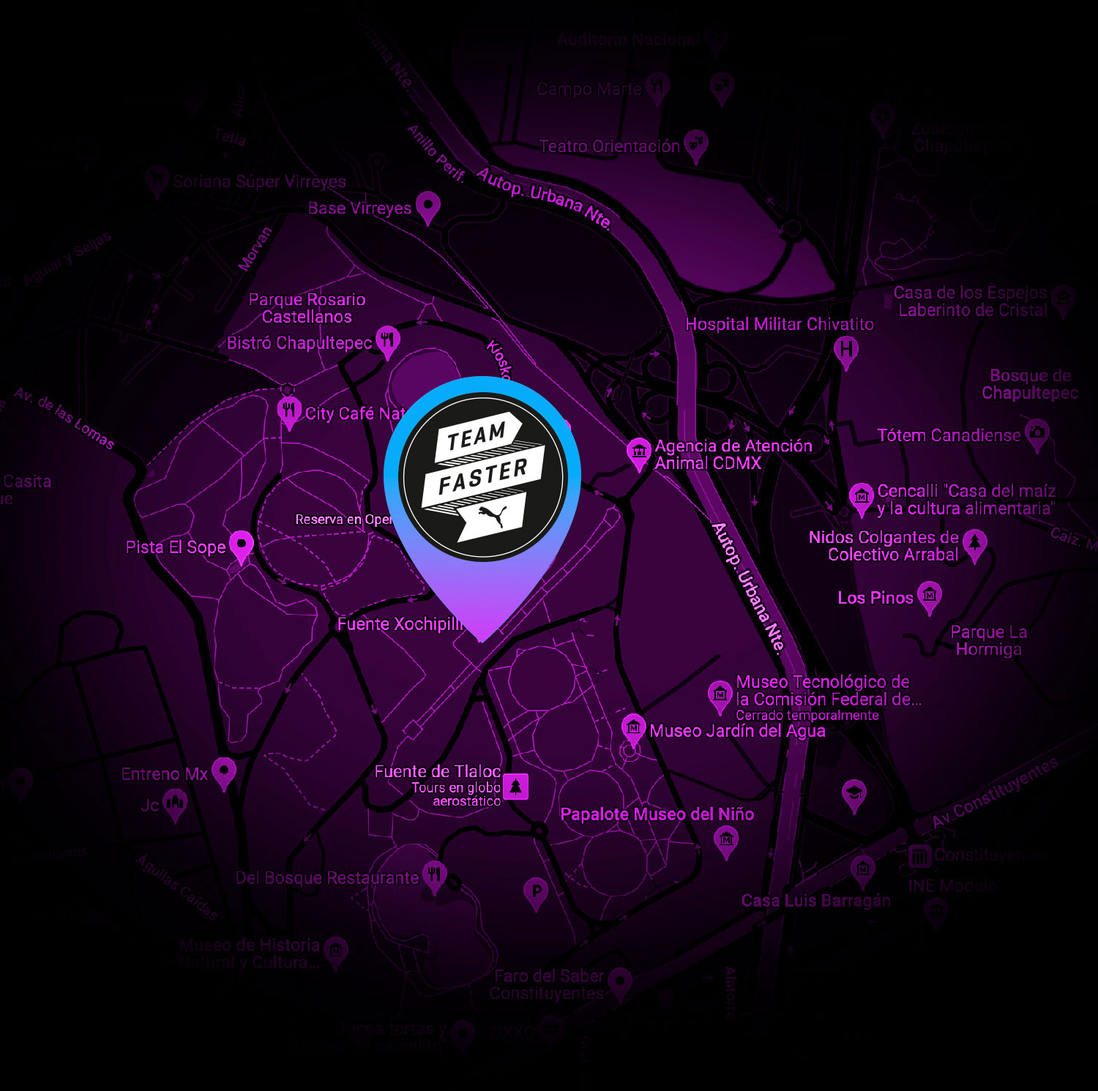
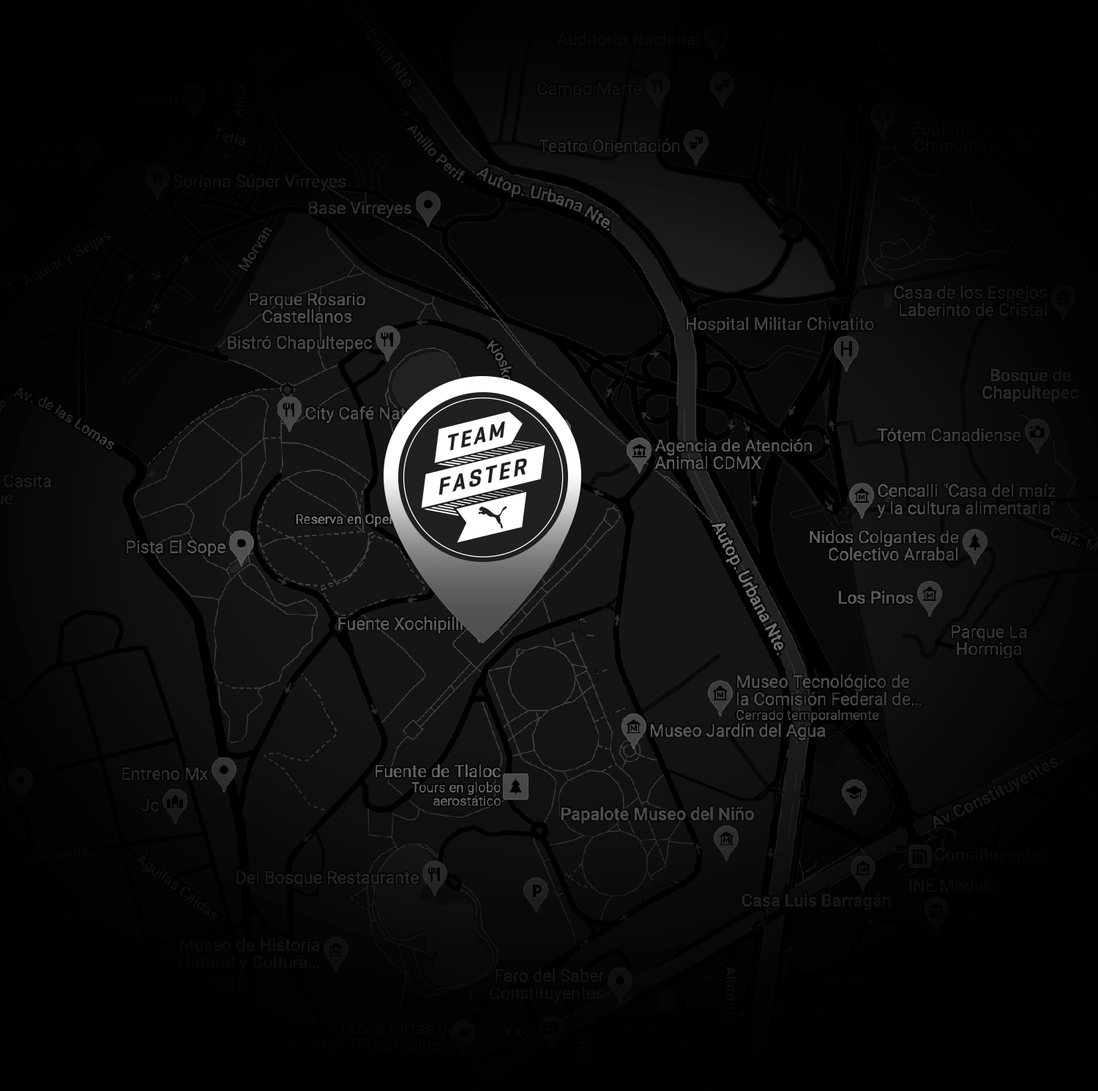
black and white

diff --git a/public/js/resources_js_Pages_Venues_vue.js b/public/js/resources_js_Pages_Venues_vue.js
@@ -120,15 +120,6 @@ __webpack_require__.r(__webpack_exports__);
 //
 //
 //
-//
-//
-//
-//
-//
-//
-//
-//
-//
 /* harmony default export */ const __WEBPACK_DEFAULT_EXPORT__ = ({
   name: 'venues',
   data: function data() {
@@ -191,7 +182,7 @@ __webpack_require__.r(__webpack_exports__);
 
 var ___CSS_LOADER_EXPORT___ = _node_modules_css_loader_dist_runtime_api_js__WEBPACK_IMPORTED_MODULE_0___default()(function(i){return i[1]});
 // Module
-___CSS_LOADER_EXPORT___.push([module.id, ".register-button[data-v-0629e8cd] {\n  border-color: white;\n}\n@media screen and (max-width: 1024px) {\n.register-button[data-v-0629e8cd] {\n    font-size: 1rem !important;\n}\n}\n@media screen and (max-width: 940px) {\n.register-button[data-v-0629e8cd] {\n    font-size: 0.9rem !important;\n}\n}\n@media screen and (max-width: 768px) {\n.register-button[data-v-0629e8cd] {\n    font-size: 1.25rem !important;\n}\n}\n.venues_photos[data-v-0629e8cd] {\n  margin: 0 20px;\n  padding: 20px;\n  background-color: black;\n}\n.venues[data-v-0629e8cd] {\n  background: linear-gradient(90deg, #60a8f7, rgb(144, 106, 245) 38%, #b935f2);\n}\n.title-venues[data-v-0629e8cd] {\n  font-size: 100px;\n  color: black;\n  line-height: 90px;\n  text-align: right;\n}\n@media screen and (max-width: 768px) {\n.title-venues[data-v-0629e8cd] {\n    font-size: 90px;\n    color: black;\n    line-height: 80px;\n    text-align: center;\n}\n}\n.title-image[data-v-0629e8cd] {\n  width: 158px;\n}\n@media screen and (max-width: 768px) {\n.title-image[data-v-0629e8cd] {\n    text-align: right;\n    margin-left: auto;\n    margin-right: auto;\n    width: 35%;\n}\n}\n@media screen and (min-width: 769px) {\n.title-image[data-v-0629e8cd] {\n    margin-left: 48px;\n    padding-top: 14px;\n}\n}\n.title-venues2[data-v-0629e8cd] {\n  font-size: 125px;\n}\n@media screen and (max-width: 768px) {\n.title-venues2[data-v-0629e8cd] {\n    font-size: 115px;\n}\n}\n.footer-styles[data-v-0629e8cd] {\n  padding: 96px 24px 48px;\n  background: linear-gradient(transparent, 35%, #110315);\n  opacity: 1;\n}\n.text-photo-title[data-v-0629e8cd] {\n  position: absolute;\n  color: white;\n  font-family: \"FFDINforPUMA-Bold\", \"Helvetica Neue\", Helvetica, Arial, sans-serif;\n  width: 100%;\n  left: 0;\n  top: 50%;\n  text-transform: uppercase;\n  font-size: 18px;\n  padding: 0 12px;\n}\n.text-photo-title.two-lines[data-v-0629e8cd] {\n  top: 47%;\n}\n.text-photo-title.venue-active[data-v-0629e8cd] {\n  top: 43%;\n}\n.text-photo-title.venue-active-third[data-v-0629e8cd] {\n  top: 42%;\n}\n.text-photo-date[data-v-0629e8cd] {\n  position: absolute;\n  color: white;\n  font-family: \"FFDINforPUMA-Regular\", \"Helvetica Neue\", Helvetica, Arial, sans-serif;\n  width: 100%;\n  text-align: right;\n  left: 0;\n  bottom: 0;\n  text-transform: uppercase;\n  font-size: 18px;\n  padding-right: 20px;\n  padding-bottom: 12px;\n}\n.text-photo-register[data-v-0629e8cd] {\n  position: absolute;\n  color: white;\n  font-family: \"FFDINforPUMA-Bold\", \"Helvetica Neue\", Helvetica, Arial, sans-serif;\n  width: 100%;\n  text-align: left;\n  left: 0;\n  top: 0;\n  text-transform: uppercase;\n  font-size: 18px;\n  padding-left: 20px;\n  padding-top: 20px;\n  color: #d700fb;\n}\n.venue0[data-v-0629e8cd] {\n  animation: fadein-data-v-0629e8cd 1s;\n  -moz-animation: fadein-data-v-0629e8cd 1s; /* Firefox */\n  -webkit-animation: fadein-data-v-0629e8cd 1s; /* Safari and Chrome */\n  -o-animation: fadein-data-v-0629e8cd 1s; /* Opera */\n}\n.venue1[data-v-0629e8cd] {\n  animation: fadein-data-v-0629e8cd 2s;\n  -moz-animation: fadein-data-v-0629e8cd 2s; /* Firefox */\n  -webkit-animation: fadein-data-v-0629e8cd 2s; /* Safari and Chrome */\n  -o-animation: fadein-data-v-0629e8cd 2s; /* Opera */\n}\n.venue2[data-v-0629e8cd] {\n  animation: fadein-data-v-0629e8cd 3s;\n  -moz-animation: fadein-data-v-0629e8cd 3s; /* Firefox */\n  -webkit-animation: fadein-data-v-0629e8cd 3s; /* Safari and Chrome */\n  -o-animation: fadein-data-v-0629e8cd 3s; /* Opera */\n}\n.empty[data-v-0629e8cd] {\n  height: 30vw;\n}\n@keyframes fadein-data-v-0629e8cd {\nfrom {\n    opacity: 0;\n}\nto {\n    opacity: 1;\n}\n}\n@-webkit-keyframes fadein-data-v-0629e8cd { /* Safari and Chrome */\nfrom {\n    opacity: 0;\n}\nto {\n    opacity: 1;\n}\n}", ""]);
+___CSS_LOADER_EXPORT___.push([module.id, ".register-button[data-v-0629e8cd] {\n  border-color: white;\n}\n@media screen and (max-width: 1024px) {\n.register-button[data-v-0629e8cd] {\n    font-size: 1rem !important;\n}\n}\n@media screen and (max-width: 940px) {\n.register-button[data-v-0629e8cd] {\n    font-size: 0.9rem !important;\n}\n}\n@media screen and (max-width: 768px) {\n.register-button[data-v-0629e8cd] {\n    font-size: 1.25rem !important;\n}\n}\n.venues_photos[data-v-0629e8cd] {\n  margin: 0 20px;\n  padding: 20px;\n  background-color: black;\n  filter: grayscale(100%);\n}\n.venues[data-v-0629e8cd] {\n  background: linear-gradient(90deg, #6d6e79, #ebebed);\n}\n.title-venues[data-v-0629e8cd] {\n  font-size: 100px;\n  color: black;\n  line-height: 90px;\n  text-align: right;\n}\n@media screen and (max-width: 768px) {\n.title-venues[data-v-0629e8cd] {\n    font-size: 90px;\n    color: black;\n    line-height: 80px;\n    text-align: center;\n}\n}\n.title-image[data-v-0629e8cd] {\n  width: 158px;\n}\n@media screen and (max-width: 768px) {\n.title-image[data-v-0629e8cd] {\n    text-align: right;\n    margin-left: auto;\n    margin-right: auto;\n    width: 35%;\n}\n}\n@media screen and (min-width: 769px) {\n.title-image[data-v-0629e8cd] {\n    margin-left: 48px;\n    padding-top: 14px;\n}\n}\n.title-venues2[data-v-0629e8cd] {\n  font-size: 125px;\n}\n@media screen and (max-width: 768px) {\n.title-venues2[data-v-0629e8cd] {\n    font-size: 115px;\n}\n}\n.footer-styles[data-v-0629e8cd] {\n  padding: 96px 24px 48px;\n  background: linear-gradient(transparent, black 45%, black);\n  opacity: 1;\n}\n.text-photo-title[data-v-0629e8cd] {\n  position: absolute;\n  color: white;\n  font-family: \"FFDINforPUMA-Bold\", \"Helvetica Neue\", Helvetica, Arial, sans-serif;\n  width: 100%;\n  left: 0;\n  top: 50%;\n  text-transform: uppercase;\n  font-size: 18px;\n  padding: 0 12px;\n}\n.text-photo-title.two-lines[data-v-0629e8cd] {\n  top: 47%;\n}\n.text-photo-title.venue-active[data-v-0629e8cd] {\n  top: 43%;\n}\n.text-photo-title.venue-active-third[data-v-0629e8cd] {\n  top: 42%;\n}\n.text-photo-date[data-v-0629e8cd] {\n  position: absolute;\n  color: white;\n  font-family: \"FFDINforPUMA-Regular\", \"Helvetica Neue\", Helvetica, Arial, sans-serif;\n  width: 100%;\n  text-align: right;\n  left: 0;\n  bottom: 0;\n  text-transform: uppercase;\n  font-size: 18px;\n  padding-right: 20px;\n  padding-bottom: 12px;\n}\n.text-photo-register[data-v-0629e8cd] {\n  position: absolute;\n  color: white;\n  font-family: \"FFDINforPUMA-Bold\", \"Helvetica Neue\", Helvetica, Arial, sans-serif;\n  width: 100%;\n  text-align: left;\n  left: 0;\n  top: 0;\n  text-transform: uppercase;\n  font-size: 18px;\n  padding-left: 20px;\n  padding-top: 20px;\n}\n.venue0[data-v-0629e8cd] {\n  animation: fadein-data-v-0629e8cd 1s;\n  -moz-animation: fadein-data-v-0629e8cd 1s; /* Firefox */\n  -webkit-animation: fadein-data-v-0629e8cd 1s; /* Safari and Chrome */\n  -o-animation: fadein-data-v-0629e8cd 1s; /* Opera */\n}\n.venue1[data-v-0629e8cd] {\n  animation: fadein-data-v-0629e8cd 2s;\n  -moz-animation: fadein-data-v-0629e8cd 2s; /* Firefox */\n  -webkit-animation: fadein-data-v-0629e8cd 2s; /* Safari and Chrome */\n  -o-animation: fadein-data-v-0629e8cd 2s; /* Opera */\n}\n.venue2[data-v-0629e8cd] {\n  animation: fadein-data-v-0629e8cd 3s;\n  -moz-animation: fadein-data-v-0629e8cd 3s; /* Firefox */\n  -webkit-animation: fadein-data-v-0629e8cd 3s; /* Safari and Chrome */\n  -o-animation: fadein-data-v-0629e8cd 3s; /* Opera */\n}\n.empty[data-v-0629e8cd] {\n  height: 30vw;\n}\n@keyframes fadein-data-v-0629e8cd {\nfrom {\n    opacity: 0;\n}\nto {\n    opacity: 1;\n}\n}\n@-webkit-keyframes fadein-data-v-0629e8cd { /* Safari and Chrome */\nfrom {\n    opacity: 0;\n}\nto {\n    opacity: 1;\n}\n}", ""]);
 // Exports
 /* harmony default export */ const __WEBPACK_DEFAULT_EXPORT__ = (___CSS_LOADER_EXPORT___);
 
@@ -364,6 +355,7 @@ var render = function () {
                 return _c(
                   "div",
                   {
+                    key: key,
                     staticClass: "column is-clickable",
                     class: "venue" + key,
                     staticStyle: { position: "relative" },
@@ -382,12 +374,7 @@ var render = function () {
                         _vm._v(" "),
                         _c(
                           "div",
-                          {
-                            staticClass: "text-photo-title",
-                            class: {
-                              "venue-active": venue.id == _vm.workout.venue.id,
-                            },
-                          },
+                          { staticClass: "text-photo-title venue-active" },
                           [
                             _vm._v(
                               "\n              " +
@@ -456,6 +443,7 @@ var render = function () {
                 return _c(
                   "div",
                   {
+                    key: key,
                     staticClass: "column is-clickable",
                     class: "venue" + key,
                     staticStyle: { position: "relative" },
@@ -472,7 +460,7 @@ var render = function () {
                     _c(
                       "div",
                       {
-                        staticClass: "text-photo-title",
+                        staticClass: "text-photo-title venue-active",
                         class: {
                           "venue-active": venue.id == _vm.workout.venue.id,
                         },
@@ -485,25 +473,29 @@ var render = function () {
                         ),
                         _c("br"),
                         _vm._v(" "),
-                        venue.id == _vm.workout.venue.id
-                          ? [
-                              _c(
-                                "b-button",
-                                {
-                                  staticClass: "register-button",
-                                  attrs: { rounded: "", size: "is-medium" },
-                                  on: { click: _vm.handleGoTo },
-                                },
-                                [
-                                  _vm._v(
-                                    "\n                ¡Regístrate ahora!\n              "
-                                  ),
-                                ]
-                              ),
-                            ]
-                          : _vm._e(),
+                        _c(
+                          "b-button",
+                          {
+                            staticClass: "register-button",
+                            attrs: {
+                              rounded: "",
+                              size: "is-medium",
+                              "data-id": venue.id,
+                            },
+                            on: {
+                              click: function ($event) {
+                                return _vm.handleGoTo(venue.id)
+                              },
+                            },
+                          },
+                          [
+                            _vm._v(
+                              "\n              ¡Regístrate ahora!\n            "
+                            ),
+                          ]
+                        ),
                       ],
-                      2
+                      1
                     ),
                     _vm._v(" "),
                     _c("div", { staticClass: "text-photo-date" }, [
@@ -530,7 +522,7 @@ var render = function () {
         2
       ),
     ]),
-    _vm._v("\n  <"),
+    _vm._v(" "),
     _vm._m(1),
   ])
 }

diff --git a/public/js/resources_js_Pages_Registro_vue.js b/public/js/resources_js_Pages_Registro_vue.js
@@ -797,7 +797,7 @@ __webpack_require__.r(__webpack_exports__);
 
 var ___CSS_LOADER_EXPORT___ = _node_modules_css_loader_dist_runtime_api_js__WEBPACK_IMPORTED_MODULE_0___default()(function(i){return i[1]});
 // Module
-___CSS_LOADER_EXPORT___.push([module.id, ".register-button[data-v-4f20a652] {\n  background-color: #c624f1;\n  border-color: #c624f1;\n  color: white;\n  font-family: \"FFDINforPUMA-Bold\", \"Helvetica Neue\", Helvetica, Arial, sans-serif;\n  text-transform: uppercase;\n  padding: 3px 36px 0;\n  margin-top: 26px;\n}\n.form-styles[data-v-4f20a652] {\n  padding-left: 7%;\n  padding-right: 7%;\n  padding-bottom: 48px;\n  padding-top: 48px;\n  max-width: 600px;\n  margin-left: auto;\n  margin-right: auto;\n}\n.form-styles .field-style[data-v-4f20a652] {\n  padding-top: 12px;\n  position: relative;\n}\n.form-title[data-v-4f20a652] {\n  font-size: 18px;\n  color: white;\n  text-align: left;\n  text-transform: uppercase;\n  padding-bottom: 12px;\n  padding-top: 12px;\n}", ""]);
+___CSS_LOADER_EXPORT___.push([module.id, ".register-button[data-v-4f20a652] {\n  background-color: #66676e;\n  border-color: #66676e;\n  color: white;\n  font-family: \"FFDINforPUMA-Bold\", \"Helvetica Neue\", Helvetica, Arial, sans-serif;\n  text-transform: uppercase;\n  padding: 3px 36px 0;\n  margin-top: 26px;\n}\n.form-styles[data-v-4f20a652] {\n  padding-left: 7%;\n  padding-right: 7%;\n  padding-bottom: 48px;\n  padding-top: 48px;\n  max-width: 600px;\n  margin-left: auto;\n  margin-right: auto;\n}\n.form-styles .field-style[data-v-4f20a652] {\n  padding-top: 12px;\n  position: relative;\n}\n.form-title[data-v-4f20a652] {\n  font-size: 18px;\n  color: white;\n  text-align: left;\n  text-transform: uppercase;\n  padding-bottom: 12px;\n  padding-top: 12px;\n}", ""]);
 // Exports
 /* harmony default export */ const __WEBPACK_DEFAULT_EXPORT__ = (___CSS_LOADER_EXPORT___);
 
@@ -820,7 +820,7 @@ __webpack_require__.r(__webpack_exports__);
 
 var ___CSS_LOADER_EXPORT___ = _node_modules_css_loader_dist_runtime_api_js__WEBPACK_IMPORTED_MODULE_0___default()(function(i){return i[1]});
 // Module
-___CSS_LOADER_EXPORT___.push([module.id, ".info-margin[data-v-3d7ff93c] {\n  padding-right: 7%;\n}\n.soldOut[data-v-3d7ff93c] {\n  color: white;\n  padding-left: 7%;\n  margin-top: 40px;\n  padding-bottom: 40px;\n  font-size: 43px;\n}\n@media screen and (max-width: 1407px) {\n.soldOut[data-v-3d7ff93c] {\n    font-size: 33px;\n}\n}\n@media screen and (max-width: 1023px) {\n.soldOut[data-v-3d7ff93c] {\n    font-size: 30px;\n}\n}\n.title-1[data-v-3d7ff93c] {\n  font-size: 125px;\n  padding-top: 50px;\n  color: white;\n  line-height: 125px;\n}\n@media screen and (max-width: 1407px) {\n.title-1[data-v-3d7ff93c] {\n    font-size: 100px;\n    line-height: 100px;\n}\n}\n@media screen and (max-width: 1023px) {\n.title-1[data-v-3d7ff93c] {\n    font-size: 90px;\n    line-height: 90px;\n}\n}\n.title-2[data-v-3d7ff93c] {\n  font-size: 90px;\n  color: black;\n  line-height: 100px;\n}\n@media screen and (max-width: 1407px) {\n.title-2[data-v-3d7ff93c] {\n    font-size: 65px;\n    line-height: 75px;\n}\n}\n@media screen and (max-width: 1023px) {\n.title-2[data-v-3d7ff93c] {\n    font-size: 55px;\n    line-height: 65px;\n}\n}\n.title-3[data-v-3d7ff93c] {\n  font-size: 100px;\n  color: black;\n  line-height: 100px;\n}\n@media screen and (max-width: 1407px) {\n.title-3[data-v-3d7ff93c] {\n    font-size: 75px;\n    line-height: 75px;\n}\n}\n@media screen and (max-width: 1023px) {\n.title-3[data-v-3d7ff93c] {\n    font-size: 55px;\n    line-height: 65px;\n}\n}\n.title-3.notAvailable[data-v-3d7ff93c] {\n  padding-top: 50px;\n}\n.info-block[data-v-3d7ff93c] {\n  padding-top: 20px;\n  font-size: 20px;\n}\n@media screen and (max-width: 1407px) {\n.info-block[data-v-3d7ff93c] {\n    padding-top: 10px;\n}\n}\n@media screen and (max-width: 1023px) {\n.info-block[data-v-3d7ff93c] {\n    font-size: 18px;\n}\n}\n.info-block .info-block-title[data-v-3d7ff93c] {\n  color: white;\n}\n.info-block .info-block-text[data-v-3d7ff93c] {\n  color: black;\n}\n.info-block .button[data-v-3d7ff93c] {\n  margin-bottom: 80px;\n  background-color: #46aaff;\n  border-color: #46aaff;\n  color: white;\n  text-transform: uppercase;\n  font-size: 18px;\n  font-family: \"FFDINforPUMA-Bold\", \"Helvetica Neue\", Helvetica, Arial, sans-serif;\n  padding: 5px 36px 0;\n}\n@media screen and (max-width: 1407px) {\n.info-block .button[data-v-3d7ff93c] {\n    padding: 4px 36px 0;\n    font-size: 16px;\n}\n}\n.register-form[data-v-3d7ff93c], .register-form-tablet[data-v-3d7ff93c] {\n  background-color: black;\n  -webkit-clip-path: polygon(0 19%, 100% 0%, 100% 100%, 0% 100%);\n          clip-path: polygon(0 19%, 100% 0%, 100% 100%, 0% 100%);\n  padding-top: 72px;\n  margin-top: 29px;\n  min-height: 61vh;\n}\n.alert[data-v-3d7ff93c] {\n  position: relative;\n  padding: 0.75rem 1.25rem;\n  margin-bottom: 1rem;\n  border: 1px solid transparent;\n  border-radius: 0.25rem;\n  text-align: center;\n}\n.alert-success[data-v-3d7ff93c] {\n  color: #155724;\n  background-color: #d4edda;\n  border-color: #c3e6cb;\n}\n.alert-danger[data-v-3d7ff93c] {\n  color: #721c24;\n  background-color: #f8d7da;\n  border-color: #f5c6cb;\n}", ""]);
+___CSS_LOADER_EXPORT___.push([module.id, ".info-margin[data-v-3d7ff93c] {\n  padding-right: 7%;\n}\n.soldOut[data-v-3d7ff93c] {\n  color: white;\n  padding-left: 7%;\n  margin-top: 40px;\n  padding-bottom: 40px;\n  font-size: 43px;\n}\n@media screen and (max-width: 1407px) {\n.soldOut[data-v-3d7ff93c] {\n    font-size: 33px;\n}\n}\n@media screen and (max-width: 1023px) {\n.soldOut[data-v-3d7ff93c] {\n    font-size: 30px;\n}\n}\n.title-1[data-v-3d7ff93c] {\n  font-size: 125px;\n  padding-top: 50px;\n  color: #66676e;\n  line-height: 125px;\n}\n@media screen and (max-width: 1407px) {\n.title-1[data-v-3d7ff93c] {\n    font-size: 100px;\n    line-height: 100px;\n}\n}\n@media screen and (max-width: 1023px) {\n.title-1[data-v-3d7ff93c] {\n    font-size: 90px;\n    line-height: 90px;\n}\n}\n.title-2[data-v-3d7ff93c] {\n  font-size: 90px;\n  color: black;\n  line-height: 100px;\n}\n@media screen and (max-width: 1407px) {\n.title-2[data-v-3d7ff93c] {\n    font-size: 65px;\n    line-height: 75px;\n}\n}\n@media screen and (max-width: 1023px) {\n.title-2[data-v-3d7ff93c] {\n    font-size: 55px;\n    line-height: 65px;\n}\n}\n.title-3[data-v-3d7ff93c] {\n  font-size: 100px;\n  color: black;\n  line-height: 100px;\n}\n@media screen and (max-width: 1407px) {\n.title-3[data-v-3d7ff93c] {\n    font-size: 75px;\n    line-height: 75px;\n}\n}\n@media screen and (max-width: 1023px) {\n.title-3[data-v-3d7ff93c] {\n    font-size: 55px;\n    line-height: 65px;\n}\n}\n.title-3.notAvailable[data-v-3d7ff93c] {\n  padding-top: 50px;\n}\n.info-block[data-v-3d7ff93c] {\n  padding-top: 20px;\n  font-size: 20px;\n}\n@media screen and (max-width: 1407px) {\n.info-block[data-v-3d7ff93c] {\n    padding-top: 10px;\n}\n}\n@media screen and (max-width: 1023px) {\n.info-block[data-v-3d7ff93c] {\n    font-size: 18px;\n}\n}\n.info-block .info-block-title[data-v-3d7ff93c] {\n  color: white;\n}\n.info-block .info-block-text[data-v-3d7ff93c] {\n  color: black;\n}\n.info-block .button[data-v-3d7ff93c] {\n  margin-bottom: 80px;\n  background-color: #46aaff;\n  border-color: #46aaff;\n  color: white;\n  text-transform: uppercase;\n  font-size: 18px;\n  font-family: \"FFDINforPUMA-Bold\", \"Helvetica Neue\", Helvetica, Arial, sans-serif;\n  padding: 5px 36px 0;\n}\n@media screen and (max-width: 1407px) {\n.info-block .button[data-v-3d7ff93c] {\n    padding: 4px 36px 0;\n    font-size: 16px;\n}\n}\n.register-form[data-v-3d7ff93c], .register-form-tablet[data-v-3d7ff93c] {\n  background-color: black;\n  -webkit-clip-path: polygon(0 19%, 100% 0%, 100% 100%, 0% 100%);\n          clip-path: polygon(0 19%, 100% 0%, 100% 100%, 0% 100%);\n  padding-top: 72px;\n  margin-top: 29px;\n  min-height: 61vh;\n}\n.alert[data-v-3d7ff93c] {\n  position: relative;\n  padding: 0.75rem 1.25rem;\n  margin-bottom: 1rem;\n  border: 1px solid transparent;\n  border-radius: 0.25rem;\n  text-align: center;\n}\n.alert-success[data-v-3d7ff93c] {\n  color: #155724;\n  background-color: #d4edda;\n  border-color: #c3e6cb;\n}\n.alert-danger[data-v-3d7ff93c] {\n  color: #721c24;\n  background-color: #f8d7da;\n  border-color: #f5c6cb;\n}", ""]);
 // Exports
 /* harmony default export */ const __WEBPACK_DEFAULT_EXPORT__ = (___CSS_LOADER_EXPORT___);
 
@@ -866,7 +866,7 @@ __webpack_require__.r(__webpack_exports__);
 
 var ___CSS_LOADER_EXPORT___ = _node_modules_css_loader_dist_runtime_api_js__WEBPACK_IMPORTED_MODULE_0___default()(function(i){return i[1]});
 // Module
-___CSS_LOADER_EXPORT___.push([module.id, ".registro[data-v-8bdab548] {\n  height: 100vh;\n}\n.img-blackwhite[data-v-8bdab548] {\n  filter: grayscale(100%);\n}\n.clip[data-v-8bdab548] {\n  margin-top: -17%;\n  -webkit-clip-path: polygon(0 19%, 100% 0%, 100% 81%, 0% 100%);\n          clip-path: polygon(0 19%, 100% 0%, 100% 81%, 0% 100%);\n}\n.column-imgs[data-v-8bdab548] {\n  background: black;\n  padding: 0;\n}\n.column-info[data-v-8bdab548] {\n  padding: 0;\n  background-image: linear-gradient(45deg, #7f7efd, #ca06fa);\n}\n@media screen and (min-width: 769px) {\n.column-info[data-v-8bdab548] {\n    min-height: 100vh;\n}\n}\n.clip-section[data-v-8bdab548] {\n  margin: 0;\n}\n.registro[data-v-8bdab548] {\n  background: black;\n}\n.tm-puma[data-v-8bdab548] {\n  margin-right: 24px;\n  padding-bottom: 24px;\n}\n@media screen and (min-width: 769px) and (max-width: 1023px) {\n.tm-puma[data-v-8bdab548] {\n    margin-top: 24px;\n}\n}\n@media screen and (min-width: 1200px) {\n.tm-puma[data-v-8bdab548] {\n    margin-top: -24px;\n}\n}\n.emptyPhoto[data-v-8bdab548] {\n  height: 50vw;\n}", ""]);
+___CSS_LOADER_EXPORT___.push([module.id, ".registro[data-v-8bdab548] {\n  height: 100vh;\n}\n.img-blackwhite[data-v-8bdab548] {\n  filter: grayscale(100%);\n}\n.clip[data-v-8bdab548] {\n  margin-top: -17%;\n  -webkit-clip-path: polygon(0 19%, 100% 0%, 100% 81%, 0% 100%);\n          clip-path: polygon(0 19%, 100% 0%, 100% 81%, 0% 100%);\n}\n.column-imgs[data-v-8bdab548] {\n  background: black;\n  padding: 0;\n}\n.column-info[data-v-8bdab548] {\n  padding: 0;\n  background-image: linear-gradient(45deg, #6d6e79, #ebebed);\n}\n@media screen and (min-width: 769px) {\n.column-info[data-v-8bdab548] {\n    min-height: 100vh;\n}\n}\n.clip-section[data-v-8bdab548] {\n  margin: 0;\n}\n.registro[data-v-8bdab548] {\n  background: black;\n}\n.tm-puma[data-v-8bdab548] {\n  margin-right: 24px;\n  padding-bottom: 24px;\n}\n@media screen and (min-width: 769px) and (max-width: 1023px) {\n.tm-puma[data-v-8bdab548] {\n    margin-top: 24px;\n}\n}\n@media screen and (min-width: 1200px) {\n.tm-puma[data-v-8bdab548] {\n    margin-top: -24px;\n}\n}\n.emptyPhoto[data-v-8bdab548] {\n  height: 50vw;\n}", ""]);
 // Exports
 /* harmony default export */ const __WEBPACK_DEFAULT_EXPORT__ = (___CSS_LOADER_EXPORT___);
 

diff --git a/resources/js/Pages/Venues.vue b/resources/js/Pages/Venues.vue
@@ -22,14 +22,14 @@
     <div class="venues_photos">
       <div class="columns ">
         <template v-if="venues.length && Object.keys(workout).length">
-          <div v-for="(venue, key) in venues.slice(0, 3)" class="column is-clickable" :class="`venue${key}`"  style="position:relative;">
+          <div v-for="(venue, key) in venues.slice(0, 3)" :key="key" class="column is-clickable" :class="`venue${key}`"  style="position:relative;">
             <div>
               <b-image
                       responsive
                       :src="`/assets/img/${venue.thumbnail}`"
                       ratio="1by1"
               ></b-image>
-              <div class="text-photo-title" :class="{'venue-active': venue.id == workout.venue.id}">
+              <div class="text-photo-title venue-active">
                 {{ venue.name }}
                 <br>
 
@@ -55,13 +55,13 @@
       </div>
       <div class="columns">
         <template v-if="venues.length && Object.keys(workout).length">
-          <div v-for="(venue, key)  in venues.slice(3, 6)" class="column is-clickable" :class="`venue${key}`"  style="position:relative;">
+          <div v-for="(venue, key)  in venues.slice(3, 6)" :key="key" class="column is-clickable" :class="`venue${key}`"  style="position:relative;">
             <b-image
                     responsive
                     :src="`/assets/img/${venue.thumbnail}`"
                     ratio="1by1"
             ></b-image>
-            <div class="text-photo-title" :class="{'venue-active': venue.id == workout.venue.id}">
+            <div class="text-photo-title venue-active" :class="{'venue-active': venue.id == workout.venue.id}">
               {{ venue.name }}
               <br>
 
@@ -89,7 +89,7 @@
         </template>
       </div>
     </div>
-    <<div class="footer-styles">
+    <div class="footer-styles">
       <div class="columns" style="margin: 0;">
         <div class="column tm-puma has-text-left" >
           @2022 puma. Todos los derechos reservados
@@ -177,9 +177,11 @@ export default {
     margin: 0 20px;
     padding: 20px;
     background-color: black;
+    -webkit-filter: grayscale(100%);
+    filter: grayscale(100%);
   }
   .venues{
-    background: linear-gradient(90deg, #60a8f7, rgba(144,106,245,1) 38%, #b935f2);
+    background: linear-gradient(90deg, #6d6e79, #ebebed);
   }
   .title-venues{
     font-size: 100px;
@@ -214,7 +216,7 @@ export default {
   }
   .footer-styles{
     padding: 96px 24px 48px;
-    background: linear-gradient(transparent, 35%, #110315);
+    background: linear-gradient( transparent, black 45%, black);
     opacity: 1;
   }
   .text-photo-title{
@@ -262,7 +264,6 @@ export default {
     font-size: 18px;
     padding-left: 20px;
     padding-top: 20px;
-    color: #d700fb;
   }
 
   .venue0{

diff --git a/public/js/resources_js_Components_Navbar_vue.js b/public/js/resources_js_Components_Navbar_vue.js
@@ -69,7 +69,7 @@ __webpack_require__.r(__webpack_exports__);
 
 var ___CSS_LOADER_EXPORT___ = _node_modules_css_loader_dist_runtime_api_js__WEBPACK_IMPORTED_MODULE_0___default()(function(i){return i[1]});
 // Module
-___CSS_LOADER_EXPORT___.push([module.id, ".gradient-bar[data-v-4a80dbca] {\n  background: rgb(96, 169, 247);\n  background: black;\n  color: white;\n}\na[data-v-4a80dbca] {\n  font-family: \"FFDINforPUMA-Regular\", \"Helvetica Neue\", Helvetica, Arial, sans-serif;\n  font-weight: normal;\n  font-style: normal;\n  text-transform: uppercase;\n}\n@media screen and (min-width: 1024px) {\n.navbar-item img[data-v-4a80dbca] {\n    max-height: unset;\n    height: 52px;\n}\n.navbar.is-spaced a.navbar-item[data-v-4a80dbca] {\n    padding-bottom: 0;\n    padding-top: 0;\n}\n#item-end[data-v-4a80dbca] {\n    width: 90.94px;\n}\n.nav-bar-button[data-v-4a80dbca] {\n    font-family: \"FFDINforPUMA-Bold\", \"Helvetica Neue\", Helvetica, Arial, sans-serif;\n    font-size: 20px;\n    padding-top: 0.5rem !important;\n    background-color: transparent !important;\n    color: #a8a5af;\n}\n.nav-bar-button[data-v-4a80dbca]:hover {\n    color: white;\n}\n.nav-bar-button.button-active[data-v-4a80dbca] {\n    color: white;\n}\n}", ""]);
+___CSS_LOADER_EXPORT___.push([module.id, ".gradient-bar[data-v-4a80dbca] {\n  background: rgb(96, 169, 247);\n  background: black;\n  color: white;\n}\na[data-v-4a80dbca] {\n  font-family: \"FFDINforPUMA-Regular\", \"Helvetica Neue\", Helvetica, Arial, sans-serif;\n  font-weight: normal;\n  font-style: normal;\n  text-transform: uppercase;\n}\n@media screen and (min-width: 1024px) {\n.navbar-item img[data-v-4a80dbca] {\n    max-height: unset;\n    height: 52px;\n}\n.navbar.is-spaced a.navbar-item[data-v-4a80dbca] {\n    padding-bottom: 0;\n    padding-top: 0;\n}\n#item-end[data-v-4a80dbca] {\n    width: 90.94px;\n}\n.nav-bar-button[data-v-4a80dbca] {\n    font-family: \"FFDINforPUMA-Bold\", \"Helvetica Neue\", Helvetica, Arial, sans-serif;\n    font-size: 20px;\n    padding-top: 0.5rem !important;\n    background-color: transparent !important;\n    color: #a8a5af;\n}\n.nav-bar-button[data-v-4a80dbca]:hover {\n    color: white;\n}\n.nav-bar-button[data-v-4a80dbca]:focus {\n    color: white;\n}\n.nav-bar-button[data-v-4a80dbca]:focus-within {\n    color: white;\n}\n.nav-bar-button.button-active[data-v-4a80dbca] {\n    color: white;\n}\n}", ""]);
 // Exports
 /* harmony default export */ const __WEBPACK_DEFAULT_EXPORT__ = (___CSS_LOADER_EXPORT___);
 

diff --git a/resources/js/Components/RegisterForm.vue b/resources/js/Components/RegisterForm.vue
@@ -196,8 +196,8 @@
 </script>
 <style lang="scss" scoped>
   .register-button{
-    background-color: #c624f1;
-    border-color: #c624f1;
+    background-color: #66676e;
+    border-color: #66676e;
     color: white;
     font-family: 'FFDINforPUMA-Bold','Helvetica Neue',Helvetica,Arial,sans-serif;
     text-transform: uppercase;

diff --git a/resources/js/Components/RegisterInfo.vue b/resources/js/Components/RegisterInfo.vue
@@ -247,7 +247,7 @@ import SuccessModal from '../Components/Success.vue';
     .title-1{
     font-size: 125px;
     padding-top: 50px;
-    color: white;
+    color: #66676e;
     line-height: 125px;
     @media screen and (max-width: 1407px) {
       font-size: 100px;

diff --git a/resources/js/Components/Navbar.vue b/resources/js/Components/Navbar.vue
@@ -73,6 +73,12 @@ export default {
         &:hover{
           color: white;
         }
+        &:focus{
+          color: white;
+        }
+        &:focus-within{
+          color: white;
+        }
         &.button-active{
           color: white;
         }

diff --git a/resources/js/Pages/Registro.vue b/resources/js/Pages/Registro.vue
@@ -147,7 +147,7 @@
   }
   .column-info{
     padding: 0;
-    background-image: linear-gradient(45deg, #7f7efd, #ca06fa);
+    background-image: linear-gradient(45deg, #6d6e79, #ebebed);
     @media screen and (min-width: 769px) {
       min-height: 100vh;
     }

diff --git a/resources/views/welcome.blade.php b/resources/views/welcome.blade.php
@@ -14,6 +14,6 @@
         <app></app>
         </div>
 
-        <script src="{{ mix('js/app.js') }}?v=1.0.4"></script>
+        <script src="{{ mix('js/app.js') }}?v=1.0.5"></script>
     </body>
 </html>
